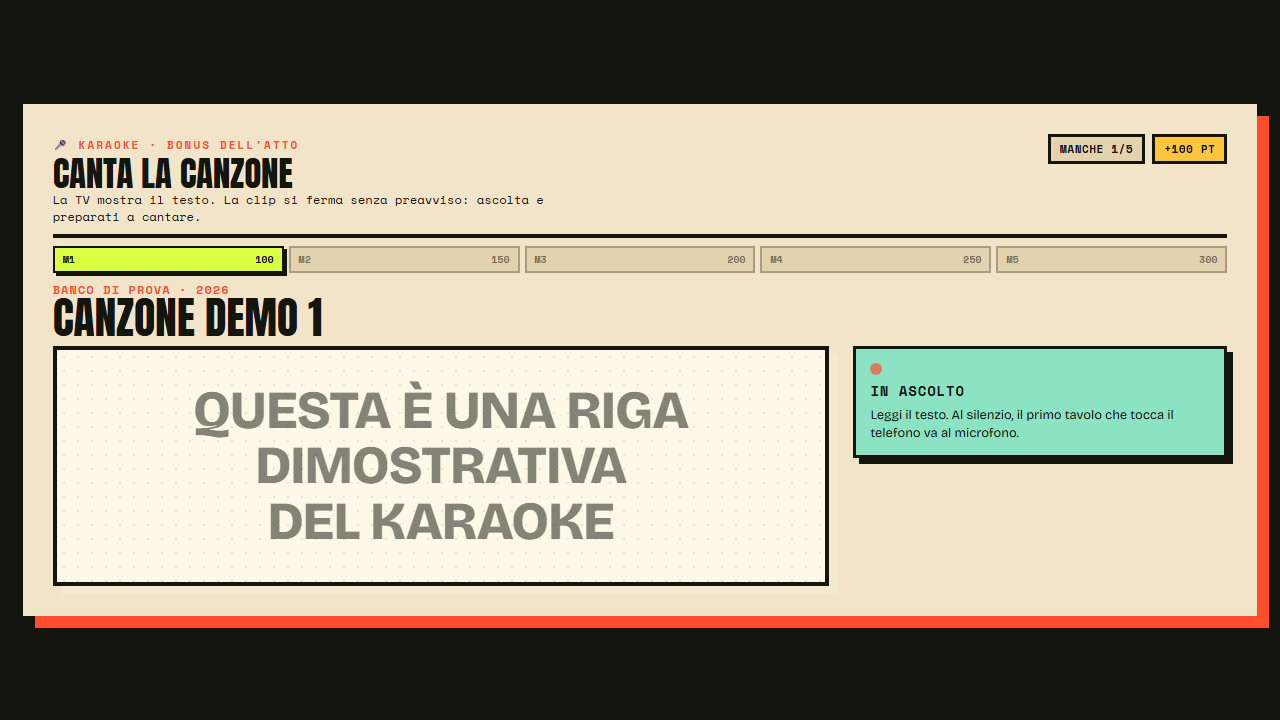
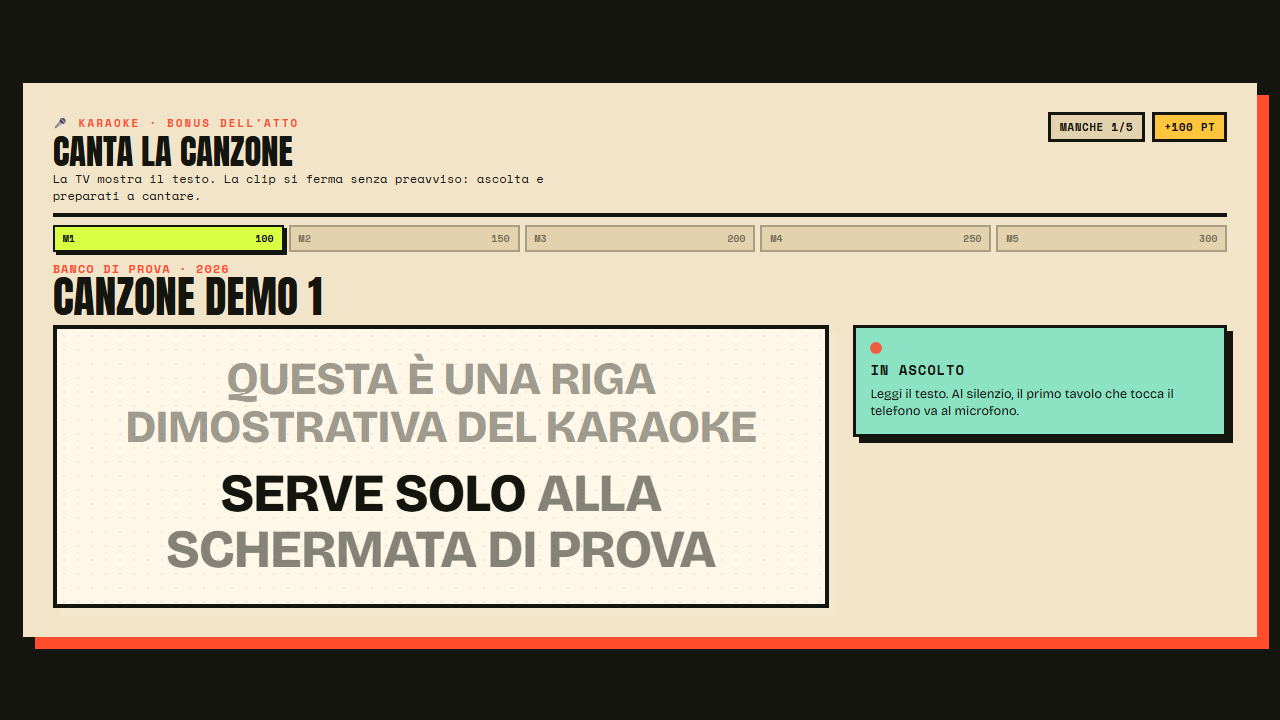
Karaoke preview: due righe e fill, niente schermata vuota senza sessione
Il banco di prova arriva alla seconda riga e la lascia a metà fill invece di fermarsi dopo mezzo secondo; se le manche vere non hanno testi o la richiesta non è autenticata mostra le manche demo. Screenshot TV rifatto.

🤖 Generated with Codebuff

Changed region(s): [[0.0, 0.0917, 1.0, 0.9167]]

diff --git a/apps/frontend/src/app/features/bonus/karaoke/karaoke-bonus.component.ts b/apps/frontend/src/app/features/bonus/karaoke/karaoke-bonus.component.ts
@@ -417,18 +417,31 @@ export class KaraokeBonus implements OnInit, OnDestroy {
   ngOnInit(): void {
     this.pausedReady = true;
     this.ws.status$.pipe(takeUntilDestroyed(this.destroyRef)).subscribe((status: any) => this.onStatus(status));
-    this.karaokeService.getManches(this.gameId).subscribe((manches) => {
-      if (this.preview) {
-        this.songs = manches.length && manches.every((item) => item.testiPronti) ? manches : DEMO_MANCHES;
-      } else {
-        this.songs = manches;
-      }
+    // Il banco di prova mostra sempre le manche finte: non dipende dai testi
+    // protetti né dal token della partita, che senza sessione risponde 401.
+    const boot = () => {
       this.loaded.set(true);
       if (this.resume) {
         this.applyResume(this.resume);
         return;
       }
       this.later(this.preview ? 200 : 1800, () => this.startManche(0));
+    };
+
+    this.karaokeService.getManches(this.gameId).subscribe({
+      next: (manches) => {
+        const list = Array.isArray(manches) ? manches : [];
+        // In preview si usano le manche vere solo se sono complete di testi;
+        // altrimenti (o senza sessione) si resta sul banco di prova finto.
+        this.songs = this.preview
+          ? (list.length && list.every((item) => item.testiPronti && item.righe?.length) ? list : DEMO_MANCHES)
+          : list;
+        boot();
+      },
+      error: () => {
+        this.songs = this.preview ? DEMO_MANCHES : [];
+        boot();
+      },
     });
   }
 
@@ -588,16 +601,21 @@ export class KaraokeBonus implements OnInit, OnDestroy {
   }
 
   private startVisualPlayback(song: KaraokeManche): void {
-    const simulationStop = Math.min(900, Math.max(500, this.stopAtMs));
-    this.stopAtMs = simulationStop;
-    this.stopIndex.set(Math.max(0, Math.min(song.righe.length - 3, 3)));
+    // Il banco di prova deve mostrare il comportamento vero: si arriva alla
+    // seconda riga e la si lascia a metà fill, non si ferma dopo mezzo secondo
+    // sulla prima. Senza righe sufficienti si ripiega su un paio di secondi.
+    const secondStart = song.righe[1]?.inizioMs ?? 4000;
+    const thirdStart = song.righe[2]?.inizioMs ?? secondStart + 4000;
+    const span = Math.max(1500, thirdStart - secondStart);
+    this.stopAtMs = Math.min(12000, Math.max(secondStart + 1200, secondStart + span * 0.55));
+    this.stopIndex.set(Math.max(0, Math.min(song.righe.length - 1, 1)));
     const started = Date.now();
     this.playbackTimer = setInterval(() => {
       if (this.phase() !== Phase.PLAYING || this.pause.isPaused) return;
       const elapsed = Date.now() - started;
       this.clipTime.set(elapsed);
       this.activeLine.set(this.lineIndexAt(elapsed));
-      if (elapsed >= simulationStop) this.stopClip();
+      if (elapsed >= this.stopAtMs) this.stopClip();
     }, 50);
   }
 
